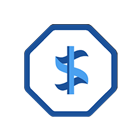
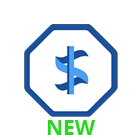
Added RUDEX.{MUSE,STEEM,SBD}

Changed region(s): [[0.3143, 0.8571, 0.6857, 0.9714]]

diff --git a/web/app/components/Dashboard/Dashboard.jsx b/web/app/components/Dashboard/Dashboard.jsx
@@ -21,6 +21,9 @@ class Dashboard extends React.Component {
                 ["BTS", "PPY"],
                 ["RUBLE", "RUDEX.GOLOS"],
                 ["RUBLE", "RUDEX.GBG"],
+                ["BTS", "RUDEX.STEEM"],
+                ["BTS", "RUDEX.SBD"],
+                ["BTS", "RUDEX.MUSE"],
                 ["BTS", "USD"],
                 ["BTS", "EUR"],
                 ["BTS", "CNY"],
@@ -33,10 +36,7 @@ class Dashboard extends React.Component {
                 ["BTS", "OPEN.BTC"],
                 ["BTS", "OPEN.DASH"],
                 ["BTS", "OPEN.ETH"],
-                ["BTS", "OPEN.STEEM"],
-                ["BTS", "OPEN.SBD"],
                 ["BTS", "OPEN.LTC"],
-                ["BTS", "OPEN.GRC"],
             ],
             "39f5e2ed": [
                 ["TEST", "PEG.FAKEUSD"],

diff --git a/web/app/assets/asset-symbols/symbols.js b/web/app/assets/asset-symbols/symbols.js
@@ -47,4 +47,5 @@ require("file-loader?name=asset-symbols/[name].png!./ltc.png");
 require("file-loader?name=asset-symbols/[name].png!./ppy.png");
 require("file-loader?name=asset-symbols/[name].png!./gbg.png");
 require("file-loader?name=asset-symbols/[name].png!./smoke.png");
+require("file-loader?name=asset-symbols/[name].png!./muse.png");
 

diff --git a/web/app/stores/SettingsStore.js b/web/app/stores/SettingsStore.js
@@ -162,6 +162,9 @@ class SettingsStore {
                     "HERO",
                     "RUDEX.GOLOS",
                     "RUDEX.GBG",
+                    "RUDEX.MUSE",
+                    "RUDEX.STEEM",
+                    "RUDEX.SBD",
                     "PPY",
                     "OPEN.BTC",
                     "OPEN.DASH",
